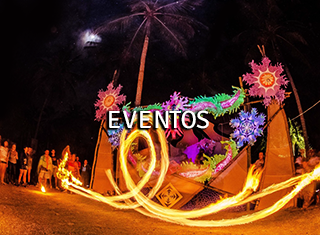
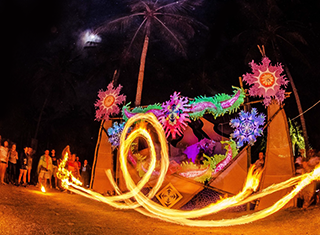
hover

Changed region(s): [[0.3125, 0.4468, 0.6562, 0.566]]

diff --git a/home.html b/home.html
@@ -52,56 +52,70 @@
             <h2>Portfólio</h2>
             <div class="trabalho__thumb">
                 <div class="trabalho_thumb__img">
-                    <a href="http://alexandremapa.netlify.app/documentarios.html"><img
-                            src="imagens/thumb1.png"></a>
+                    <a href="http://alexandremapa.netlify.app/documentarios.html">
+                        <span>Documentários</span>
+                        <img src="imagens/thumb1.png">
+                    </a>
                 </div>
                 <div class="trabalho_thumb__img">
-                    <a href="http://alexandremapa.netlify.app/festivaiscinema.html"><img
-                            src="imagens/thumb2.png"></a>
+                    <a href="http://alexandremapa.netlify.app/festivaiscinema.html">
+                        <span>Festivais de Cinema</span>
+                        <img src="imagens/thumb2.png">
+                    </a>
                 </div>
                 <div class="trabalho_thumb__img">
-                    <a href="http://alexandremapa.netlify.app/institucionais.html"><img
-                            src="imagens/thumb3.png"></a>
+                    <a href="http://alexandremapa.netlify.app/institucionais.html">
+                        <span>institucionais</span>
+                        <img src="imagens/thumb3.png">
+                    </a>
                 </div>
                 <div class="trabalho_thumb__img">
-                    <a href="http://alexandremapa.netlify.app/eventos.html"><img 
-                    src="imagens/thumb4.png"></a>
+                    <a href="http://alexandremapa.netlify.app/eventos.html">
+                        <span>Eventos</span>
+                        <img src="imagens/thumb4.png">
+                    </a>
                 </div>
                 <div class="trabalho_thumb__img">
-                    <a href="http://alexandremapa.netlify.app/publicitarios.html"><img
-                            src="imagens/thumb5.png"></a>
+                    <a href="http://alexandremapa.netlify.app/publicitarios.html">
+                        <span>Publicitários</span>
+                        <img src="imagens/thumb5.png">
+                    </a>
                 </div>
                 <div class="trabalho_thumb__img">
-                    <a href="http://alexandremapa.netlify.app/videoaulas.html"><img
-                            src="imagens/thumb6.png"></a>
+                    <a href="http://alexandremapa.netlify.app/videoaulas.html">
+                        <span>Vídeo Aulas</span>
+                        <img src="imagens/thumb6.png">
+                    </a>
                 </div>
                 <div class="trabalho_thumb__img">
-                    <a href="http://alexandremapa.netlify.app/videosinstagram.html"><img
-                            src="imagens/thumb7.png"></a>
+                    <a href="http://alexandremapa.netlify.app/videosinstagram.html">
+                        <span>Mídias Digitais</span>
+                        <img src="imagens/thumb7.png"></a>
                 </div>
                 <div class="trabalho_thumb__img">
-                    <a href="http://alexandremapa.netlify.app/apresentacoesmusicais.html"><img
-                            src="imagens/thumb8.png"></a>
+                    <a href="http://alexandremapa.netlify.app/apresentacoesmusicais.html">
+                        <span>Apresentações Musicais</span>
+                        <img src="imagens/thumb8.png"></a>
                 </div>
             </div>
         </section>
         <section class="contato">
             <h2>Contato</h2>
-                <div class="contato__div" id="contato">
-                    <form class="contato__div__form" action="#" method="POST">
-                        <input type="text" name="nome" id="nome" placeholder="Seu Nome">
-                        <input type="email" name="email" id="email" placeholder="E-mail">
-                        <textarea name="mensagem" placeholder="Sua Mensagem" id="mensagem" rows="5"></textarea>
-                        <br>
-                        <input type="submit" value="Enviar" id="btn" class="form-button">
-                    </form>
-                    <div class="contato__div__infos">
-                        <h3>Informações de contato:</h3>
-                        <p>Alexandre Mapa</p>
-                        <p>São Paulo/SP</p>
-                        <p>E-mail: alexandre.mapa0@gmail.com</p>
-                        <a href="https://wa.me/5511987312266" target="_blank"><i class="fab fa-whatsapp"></i></a>
-                    </div>
+            <div class="contato__div" id="contato">
+                <form class="contato__div__form" action="#" method="POST">
+                    <input type="text" name="nome" id="nome" placeholder="Seu Nome">
+                    <input type="email" name="email" id="email" placeholder="E-mail">
+                    <textarea name="mensagem" placeholder="Sua Mensagem" id="mensagem" rows="5"></textarea>
+                    <br>
+                    <input type="submit" value="Enviar" id="btn" class="form-button">
+                </form>
+                <div class="contato__div__infos">
+                    <h3>Informações de contato:</h3>
+                    <p>Alexandre Mapa</p>
+                    <p>São Paulo/SP</p>
+                    <p>E-mail: alexandre.mapa0@gmail.com</p>
+                    <a href="https://wa.me/5511987312266" target="_blank"><i class="fab fa-whatsapp"></i></a>
+                </div>
 
             </div>
         </section>

diff --git a/css/main.css b/css/main.css
@@ -171,15 +171,29 @@ img {
 }
 
 .trabalho_thumb__img {
+    position: relative;
     opacity: 1;
     transition: all .8s;
-    filter: grayscale(150%);
     -webkit-filter: grayscale(100%);
 }
 
 .trabalho_thumb__img:hover {
     filter: none;
     -webkit-filter: none;
+    
+}
+.trabalho_thumb__img span{
+    line-height: 15px;
+    background-color: black;
+    padding: 2px 5px;
+    position: absolute;
+    color: white;
+    top: 50%;
+    left: 50%;
+    transform: translate(-50%, -50%);
+    text-transform: uppercase;
+    font-size: 14px;
+    text-shadow: 2px 2px 2px rgba(0,0,0,0.98);
 }
 
 .trabalho__thumb img {
@@ -295,6 +309,12 @@ footer {
     }
     .trabalho__thumb {
         grid-template-columns: repeat(auto-fill, minmax(200px, 1fr));
+    }
+    .trabalho_thumb__img span{
+        line-height: 24px;
+        padding: 10px 15px;
+        font-size: 22px;
+        white-space: nowrap;
     }
     
 }
